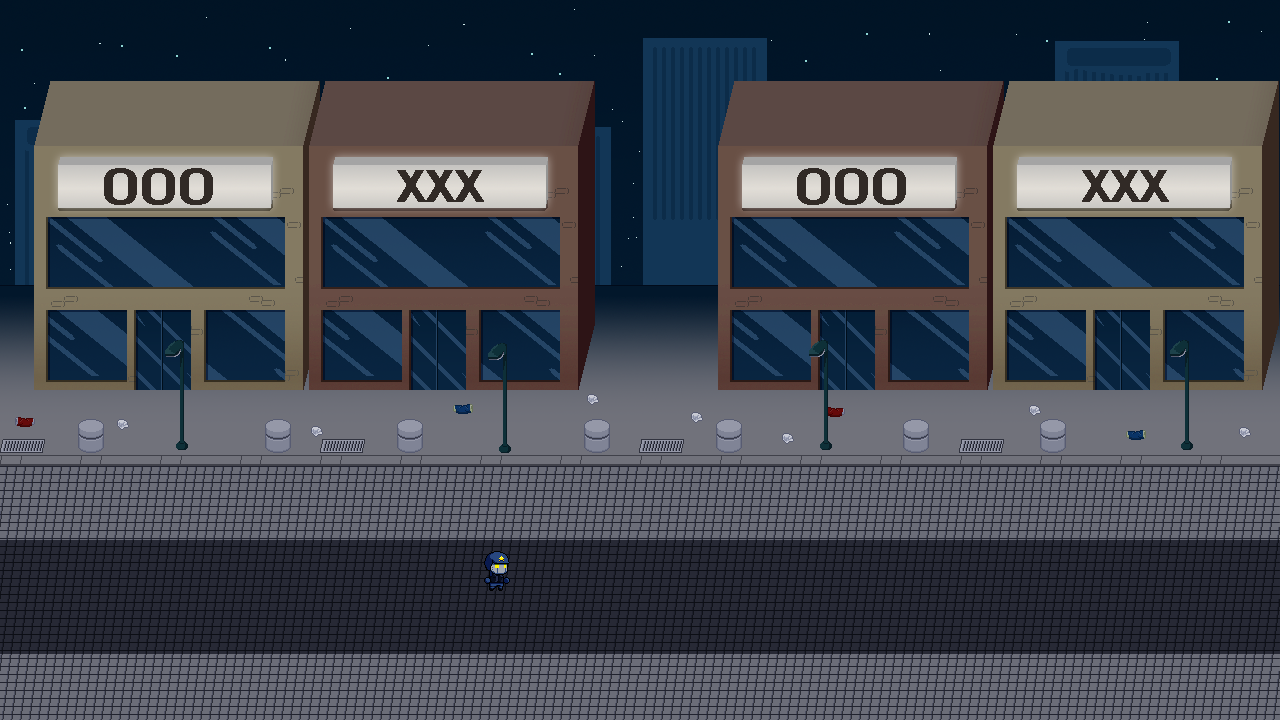
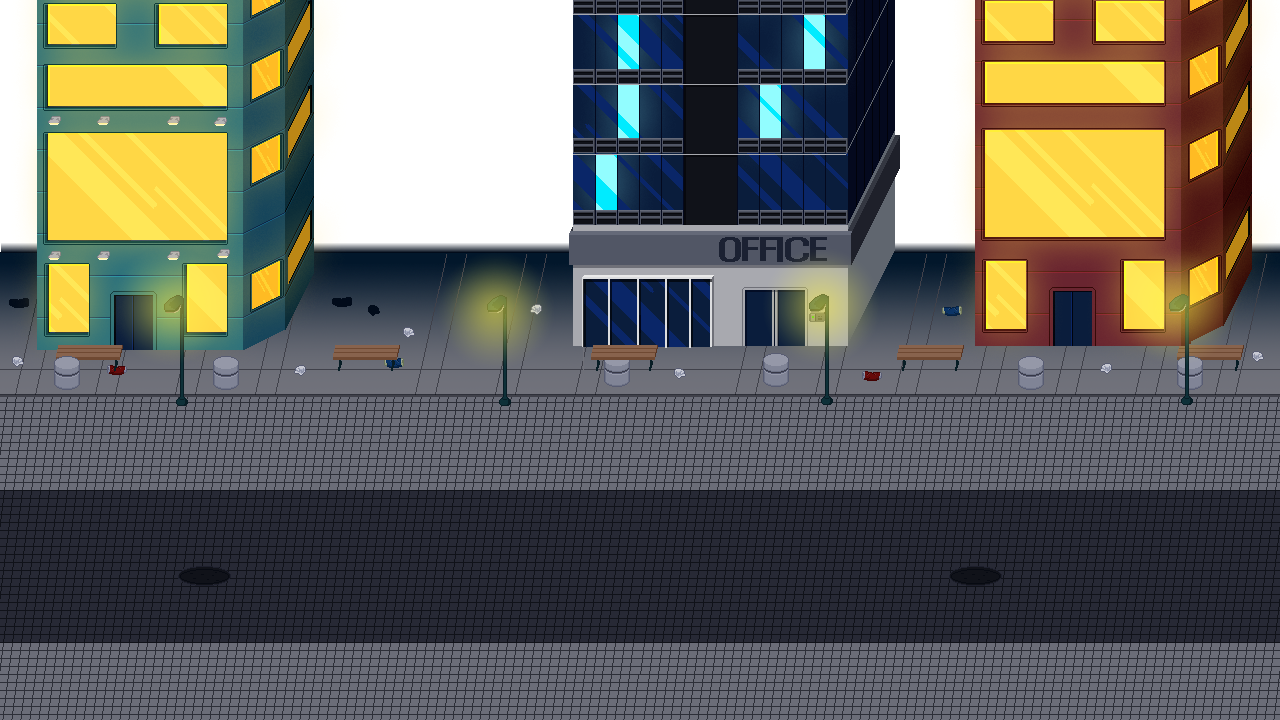
배경 변경, 적 이동, 배경 이펙트 추가

diff --git a/SkillContest201907/Player.cpp b/SkillContest201907/Player.cpp
@@ -3,19 +3,48 @@
 
 #include "MotionBlur.h"
 #include "Bullet.h"
+#include "Cartridge.h"
+#include "Background.h"
+#include "BackEffect.h"
+
 
 void Player::Init()
 {
-	mainTexture = Resources->LoadTexture("Character/test.png");
+	mainTexture = Resources->LoadTexture("Character/Bike.png");
 	motionBlur = OBJECTMANAGER->AddGameObject(new MotionBlur(this), GameObject::EFFECT);
-	moveSpeed = 200;
+	moveSpeed = 350;
 	timer = Timer::AddTimer(1.0f);
+	pos.y = -100;
+	background = dynamic_cast<Background*>(*OBJECTMANAGER->FindGameObjectsWithTag(
+		GameObject::BACKGROUND).begin());
+
+	backEffect = new BackEffect(Resources->LoadTexture("Effect/BackEffect.png"));
+
+	OBJECTMANAGER->AddGameObject(backEffect, GameObject::EFFECT);
+
+	backEffect->SetActive(false);
 }
 
 void Player::Update()
 {
 	PlayerMove();
 	PlayerAttack();
+
+	static bool f = false;
+
+	if (INPUTMANAGER->IsKeyDown(VK_SPACE)) f = !f;
+
+	if (f)
+	{
+		Timer::SetTimeScale(Lerp(Timer::GetTimeScale(), 0.1f, 0.05f));
+
+		backEffect->SetActive(true);
+	}
+	else {
+		Timer::SetTimeScale(Lerp(Timer::GetTimeScale(), 1.0f, 0.05f));
+
+		backEffect->SetActive(false);
+	}
 }
 
 void Player::Render()
@@ -38,6 +67,10 @@ void Player::PlayerMove()
 		moveVector.x = -0.7f;
 	
 	pos += moveVector * moveSpeed * ELTime;
+
+	pos.x = min(max(pos.x, -SCREEN_X * 0.5f), SCREEN_X * 0.5f);
+	pos.y = min(max(pos.y, -SCREEN_Y * 0.5f), SCREEN_Y * 0.5f);
+	
 	pos.z = pos.y + SCREEN_Y * 0.5f;
 }
 
@@ -50,8 +83,16 @@ void Player::PlayerAttack()
 
 		Bullet* bullet = new Bullet(Resources->LoadTexture("Bullet/Player_Bullet.png"),
 			dir * 1000);
+
 		bullet->SetPos(pos);
+
 		OBJECTMANAGER->AddGameObject(bullet, GameObject::PLAYER_BULLET);
+
+		Cartridge* cartridge = new Cartridge(pos, background);
+
+		OBJECTMANAGER->AddGameObject(cartridge, GameObject::EFFECT);
+
+
 		timer->Reset(1.0f);
 	}
 }

diff --git a/SkillContest201907/Background.cpp b/SkillContest201907/Background.cpp
@@ -3,8 +3,9 @@
 
 Background::Background()
 {
-	moveSpeed = 1000.0f;
+	moveSpeed = 1200.0f;
 	pos.z = 720;
+	backPosition.z = 800;
 }
 
 Background::~Background()
@@ -14,21 +15,29 @@ Background::~Background()
 void Background::Init()
 {
 	mainTexture = Resources->LoadTexture("Background/Background.png");
+	backTexture = Resources->LoadTexture("Background/Background3.png");
 }
 
 void Background::Update()
 {
 	pos -= Vector3(moveSpeed * ELTime, 0, 0);
+	backPosition -= Vector3(moveSpeed * ELTime * 0.1f, 0, 0);
 
-	if (pos.x < -1280)
-		pos.x += 1280;
+	if (pos.x < -SCREEN_X)
+		pos.x += SCREEN_X;
+	if (backPosition.x < -SCREEN_X)
+		backPosition.x += SCREEN_X;
 }
 
 void Background::Render()
 {
+	RENDERMANAGER->DrawTexture(backTexture, backPosition, scale);
+	RENDERMANAGER->DrawTexture(backTexture, backPosition + Vector3(SCREEN_X, 0, 0), scale);
+	RENDERMANAGER->DrawTexture(backTexture, backPosition + Vector3(SCREEN_X, 0, 0), scale);
+
 	RENDERMANAGER->DrawTexture(mainTexture, pos, scale);
-	RENDERMANAGER->DrawTexture(mainTexture, pos + Vector3(1280, 0, 0), scale);
-	RENDERMANAGER->DrawTexture(mainTexture, pos + Vector3(1280, 0, 0), scale);
+	RENDERMANAGER->DrawTexture(mainTexture, pos + Vector3(SCREEN_X, 0, 0), scale);
+	RENDERMANAGER->DrawTexture(mainTexture, pos + Vector3(SCREEN_X, 0, 0), scale);
 }
 
 void Background::Release()

diff --git a/SkillContest201907/Cartridge.cpp b/SkillContest201907/Cartridge.cpp
@@ -1,0 +1,55 @@
+#include "DXUT.h"
+#include "Cartridge.h"
+
+#include "Background.h"
+
+Cartridge::Cartridge(Vector3 spawnPos, Background *_background)
+{
+	pos = spawnPos;
+
+	int x = GetRandomNumberBetween(-100, -80);
+	int y = GetRandomNumberBetween(400, 600);
+	
+	moveVector = Vector2(x, y);
+
+	mainTexture = Resources->LoadTexture("Bullet/Cartridge.png");
+
+	background = _background;
+}
+
+Cartridge::~Cartridge()
+{
+}
+
+void Cartridge::Init()
+{
+
+}
+
+void Cartridge::Update()
+{
+	if (pos.y < pos.z - SCREEN_Y * 0.5f - 30)
+	{
+		moveVector = Vector2(-background->GetMoveSpeed(), 0);
+		pos += Vector3(moveVector) * ELTime;
+	}
+	else if (pos.x < -640)
+	{
+		SetDestroy(true);
+	}
+	else
+	{
+		pos += Vector3(moveVector.x, moveVector.y, 0) * ELTime;
+		moveVector -= Vector2(200, 1700) * ELTime;
+		rotate += GetRandomNumberBetween(400, 700) * ELTime;
+	}
+}
+
+void Cartridge::Render()
+{
+	RENDERMANAGER->DrawTexture(mainTexture, pos, scale, rotate, color);
+}
+
+void Cartridge::Release()
+{
+}

diff --git a/SkillContest201907/Enemy.cpp b/SkillContest201907/Enemy.cpp
@@ -1,9 +1,11 @@
 #include "DXUT.h"
 #include "Enemy.h"
 
-Enemy::Enemy()
+
+Enemy::Enemy(Vector3 spawnPos)
 {
 	enemyState = ENEMY_START;
+	pos = spawnPos;
 }
 
 Enemy::~Enemy()
@@ -17,6 +19,8 @@ void Enemy::Init()
 void Enemy::Update()
 {
 	(this->*enemyFunc[enemyState])();
+
+	pos.z = FixZToY(pos.y);
 }
 
 void Enemy::Render()
@@ -27,9 +31,31 @@ void Enemy::Release()
 {
 }
 
-void Enemy::EnemyRightStart()
+void Enemy::EnemyStart()
 {
-	pos = {500, -300, 0};
+	moveVector = GetVec3Distance(pos, targetPos);
+
+	pos += moveVector * ELTime * moveSpeed;
+
+	Vector2 length = targetPos - pos;
+
+	if (D3DXVec2Length(&length) < 3.0f)
+		enemyState = ENEMY_STATE::ENEMY_MOVE;
+}
+
+class Random
+{
+public:
+	static int Range(int min, int max) { return GetRandomNumberBetween(min, max); }
+};
+
+void Enemy::EnemyMove()
+{
+	sinCount += ELTime * (Random::Range(1, 4));
+	cosCount += ELTime * (Random::Range(1, 4));
+
+	pos.x += sin(sinCount) * 0.1f;
+	pos.y += cos(cosCount) * 0.05f;
 }
 
 void Enemy::EnemyDie()

diff --git a/SkillContest201907/SkillContest201907.cpp b/SkillContest201907/SkillContest201907.cpp
@@ -5,6 +5,7 @@
 //--------------------------------------------------------------------------------------
 #include "DXUT.h"
 #include "resource.h"
+#include <time.h>
 
 
 MainProc main;
@@ -47,6 +48,8 @@ HRESULT CALLBACK OnD3D9CreateDevice( IDirect3DDevice9* pd3dDevice, const D3DSURF
 #pragma comment(linker, "/entry:WinMainCRTStartup /subsystem:console") 
 #endif
 	//_CrtSetBreakAlloc(7560);
+
+	srand(time(NULL));
 
 	main.Init();
     return S_OK;
@@ -151,7 +154,7 @@ INT WINAPI wWinMain( HINSTANCE, HINSTANCE, LPWSTR, int )
     DXUTSetHotkeyHandling( true, true, true );  // handle the default hotkeys
     DXUTSetCursorSettings( true, true ); // Show the cursor and clip it when in full screen
     DXUTCreateWindow( L"SkillContest201907" );
-    DXUTCreateDevice( true, SCREEN_X, SCREEN_Y);
+    DXUTCreateDevice( true, 1280, 720);
 
     // Start the render loop
     DXUTMainLoop();

diff --git a/SkillContest201907/Utility.cpp b/SkillContest201907/Utility.cpp
@@ -1,10 +1,12 @@
 #include "DXUT.h"
 
+#include <random>
+
 Vector3 ScreenToWorldCamera(Vector2 pos)
 {
 	Vector3 result = Vector3(0, 0, 0);
-	result.x = pos.x - SCREEN_X * 0.5f;
-	result.y = SCREEN_Y * 0.5f - pos.y;
+	result.x = (SCREEN_X / 1280.0f) * pos.x - SCREEN_X * 0.5f;
+	result.y = SCREEN_Y * 0.5f - pos.y * (SCREEN_Y / 720.0f);
 	return result;
 }
 
@@ -22,4 +24,20 @@ float GetVec2ToDegree(const Vector2& p1, const Vector2& p2)
 	D3DXVec2Normalize(&d, &d);
 
 	return D3DXToDegree(atan2f(d.y, d.x));
+}
+
+float FixZToY(float y)
+{
+	float result = y + SCREEN_Y * 0.5f;
+	return result;
+}
+
+int GetRandomNumberBetween(int n1, int n2)
+{
+	std::random_device rd;
+	std::mt19937 mersenne(rd());
+
+	std::uniform_int_distribution<> between(n1, n2);
+
+	return between(mersenne);
 }

diff --git a/SkillContest201907/MotionBlur.cpp b/SkillContest201907/MotionBlur.cpp
@@ -20,18 +20,6 @@ void MotionBlur::Init()
 
 void MotionBlur::Update()
 {
-	static bool f = false;
-
-	if (INPUTMANAGER->IsKeyDown(VK_SPACE)) f = !f;
-
-	if (f) 
-	{
-		Timer::SetTimeScale(Lerp(Timer::GetTimeScale(), 0.1f, 0.05f)); 
-	}
-	else {
-		Timer::SetTimeScale(Lerp(Timer::GetTimeScale(), 1.0f, 0.05f)); 
-	}
-
 	if (timer->IsEnd)
 	{
 		MotionEffect* effect = new MotionEffect(0.15f, obj->GetTexture(), Vector3(-300, 0, 0.1f));
@@ -39,6 +27,7 @@ void MotionBlur::Update()
 
 		effectPos.z = 300;
 		effect->SetPos(effectPos);
+		effect->SetRotate(obj->GetRotate());
 
 		OBJECTMANAGER->AddGameObject(effect, GameObject::EFFECT);
 		timer->Reset(0.01f);

diff --git a/SkillContest201907/Enemy1.cpp b/SkillContest201907/Enemy1.cpp
@@ -1,8 +1,10 @@
 #include "DXUT.h"
 #include "Enemy1.h"
 
-Enemy1::Enemy1()
+Enemy1::Enemy1(Vector3 _targetPos, Vector3 spawnPos)
+	: Enemy(spawnPos)
 {
+	targetPos = _targetPos;
 }
 
 Enemy1::~Enemy1()
@@ -11,9 +13,14 @@ Enemy1::~Enemy1()
 
 void Enemy1::Init()
 {
-	enemyFunc[ENEMY_START] = &Enemy::EnemyRightStart;
+	enemyFunc[ENEMY_START] = &Enemy::EnemyStart;
+	enemyFunc[ENEMY_MOVE] = &Enemy::EnemyMove;
 
-	mainTexture = Resources->LoadTexture("Character/test.png");
+	mainTexture = Resources->LoadTexture("Character/Enemy.png");
+
+	moveSpeed = 200.0f;
+
+	__super::Init();
 }
 
 void Enemy1::Update()

diff --git a/SkillContest201907/Bullet.cpp b/SkillContest201907/Bullet.cpp
@@ -1,9 +1,14 @@
 #include "DXUT.h"
 #include "Bullet.h"
 
+#include "MotionBlur.h"
+
 void Bullet::Init()
 {
 	timer = Timer::AddTimer(3.0f);
+
+	motion = new MotionBlur(this);
+	OBJECTMANAGER->AddGameObject(motion, GameObject::EFFECT);
 }
 
 void Bullet::Update()
@@ -25,4 +30,5 @@ void Bullet::Render()
 void Bullet::Release()
 {
 	Timer::RemoveTimer(timer);
+	motion->SetDestroy(true);
 }
